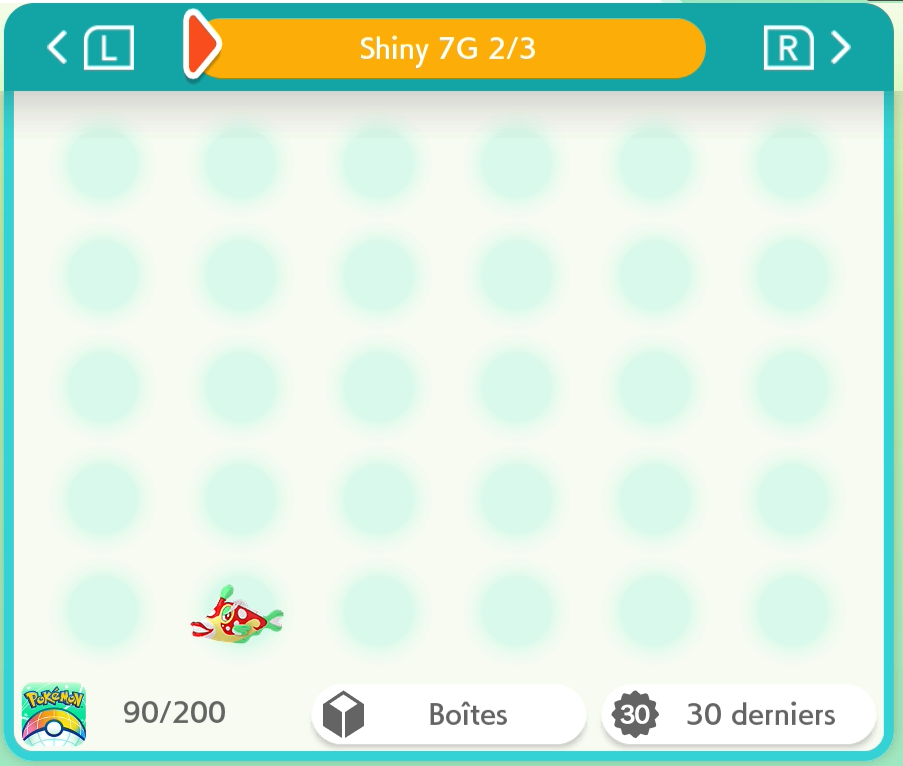
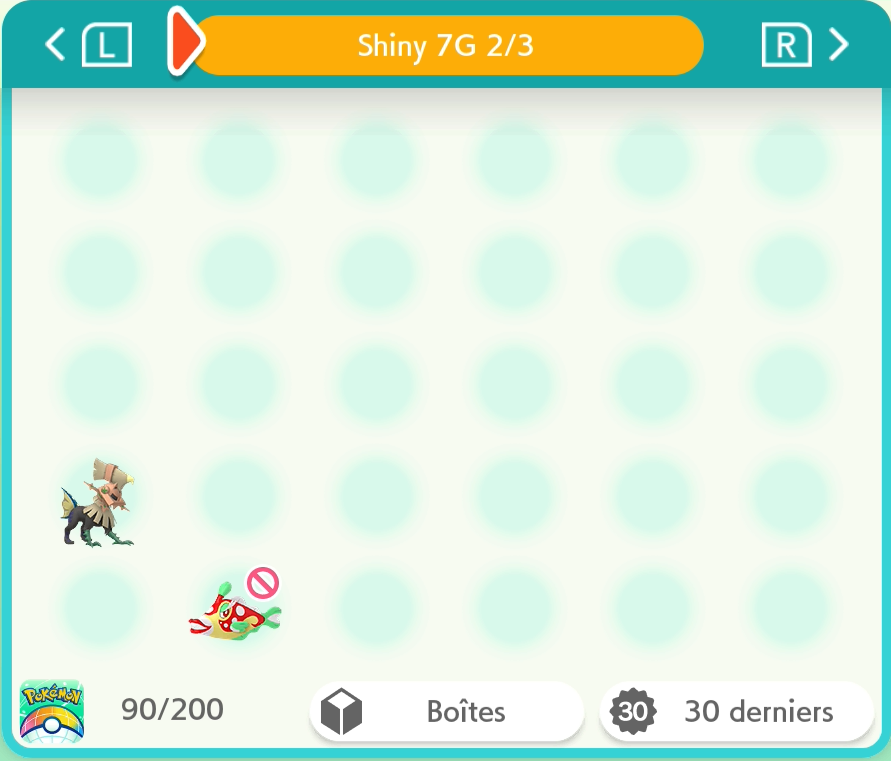
7G : Type:0

Changed region(s): [[0.0, 0.0, 1.0, 0.9974], [0.2121, 0.7254, 0.3333, 0.8463], [0.0606, 0.6045, 0.1515, 0.7254]]

diff --git a/README.md b/README.md
@@ -2,8 +2,8 @@
 
 Pokémon-Elément-Sh -> <a href="https://www.pokemon-element-sh.fr/profil/karyno21" target="_blank">Karyno21</a>
 
-↓ Dernière Update le 12/08/2026 à 18h49 ↓
-### Dex National [262/999] +1
+↓ Dernière Update le 27/08/2026 à 4h17 ↓
+### Dex National [263/999] +2
 
 | Gen | Prog | Notes |
 |:--:|:--:|---|
@@ -13,7 +13,7 @@ Pokémon-Elément-Sh -> <a href="https://www.pokemon-element-sh.fr/profil/karyno
 |4G|20/107||
 |5G|28/154||
 |6G|22/70||
-|7G|16/84||
+|7G|17/84|+1 Type:0|
 |8G|32/90||
 |9G|45/108||
 
